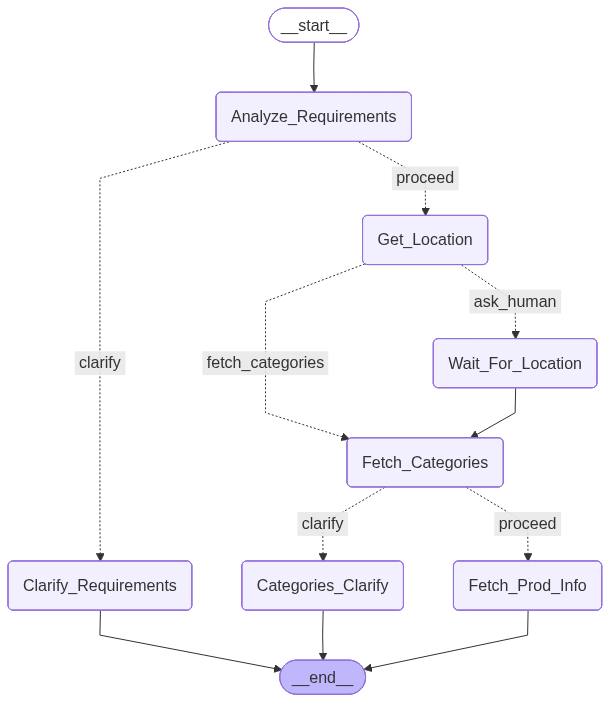
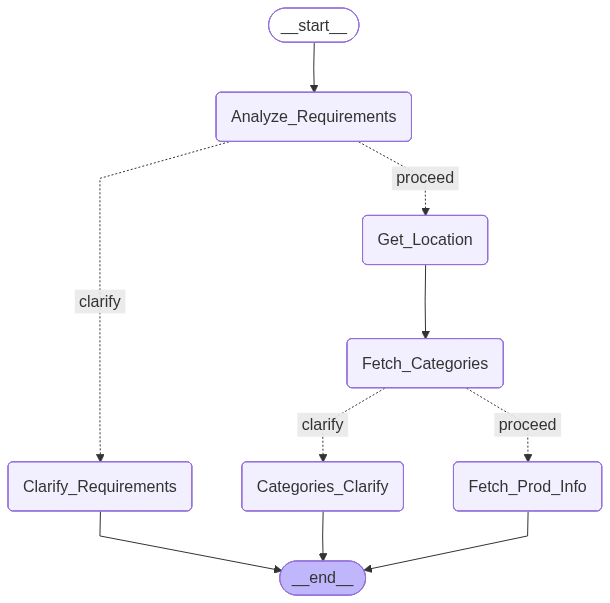
update_code_hil

diff --git a/eApp/worker/celery_task_llm.py b/eApp/worker/celery_task_llm.py
@@ -1,20 +1,19 @@
 import json
 import logging 
-import nest_asyncio 
 from uuid import uuid4
 from eApp import models
 from celery import Celery
 from celery import shared_task
 from eApp.config import CONFIG
+from langgraph.types import Command
 from sqlalchemy import select, func 
-from asgiref.sync import async_to_sync
 from eApp.redis_setup import redis_sync
 from eApp.database import connection_args
 from langchain_core.messages import AIMessage
 from langgraph.checkpoint.postgres.aio import AsyncPostgresSaver
 from eApp.workflows.social_media_workflow import social_media_wkf
+from eApp.workflows.nearby_product_finder_workflow import nearby_product_finder_wkf
 from sqlalchemy.ext.asyncio import create_async_engine,async_sessionmaker,AsyncSession
-from eApp.workflows.nearby_product_finder_workflow import nearby_product_finder_wkf,WAIT_FOR_LOCATION
 
 logger = logging.getLogger(__name__)  
 
@@ -88,8 +87,7 @@ async def chunking_message(chunk):
         )
 
 # Async processing function
-async def process_llm_request_internal(user_question: str, checkpoint_id: str, user_id: int, channel_id: str,workflow_type:str):
-    
+async def process_llm_request_internal(user_question: str, checkpoint_id: str, user_id: int, channel_id: str,workflow_type:str,resume_data:dict=None):
     """ 
     Problem is that,  1st request processed well, but 2nd request 
     get loop confit, so we can solve this by creating a new database connection 
@@ -114,83 +112,106 @@ async def process_llm_request_internal(user_question: str, checkpoint_id: str, u
     try:
         print("\n\n -----we are in process llm request internal-----\n\n")
         async with session_factory() as db:
-            # Check current checkpoint
+
+            # Check current checkpoint:
             is_new_conversation = (checkpoint_id == "")
+
+            # check any resume request:
+            is_resume = resume_data is not None 
             user_checkpoint_id = str(checkpoint_id) if not is_new_conversation else str(uuid4())
 
             # 1.<--- Conversation title ---->
+            # don't need save the conversation if we want resume the graph
             conversation = None
-            if is_new_conversation:
-                conversation = models.Conversation(
+
+            #  ========== if not resume ==========
+            if not is_resume:
+                # 1. fresh conversation
+                if is_new_conversation:
+                    conversation = models.Conversation(
+                        user_id=user_id,
+                        thread_id=user_checkpoint_id,
+                        title=user_question[:50] + "...." if len(user_question) > 50 else user_question
+                    )
+                    db.add(conversation)
+                    await db.commit()
+                    await db.refresh(conversation)
+                    redis_sync.publish(channel_id, json.dumps({
+                    "type": "checkpoint",
+                    "checkpoint_id": user_checkpoint_id}))
+                # 2. old conversation
+                else:
+                    result = await db.execute(
+                        select(models.Conversation).where(
+                            models.Conversation.thread_id == checkpoint_id
+                        ).where(
+                            models.Conversation.user_id == user_id
+                        )
+                    )
+                    conversation = result.scalar_one_or_none()
+                    if not conversation:
+                        redis_sync.publish(channel_id, json.dumps({"type": "error", "content": "Checkpoint not found"}))
+                        return
+                    conversation.last_updated = func.now()
+                    db.add(conversation)
+                    await db.commit()
+
+
+                # 2. Save User Message
+                user_msg = models.MessageHistory(
                     user_id=user_id,
-                    thread_id=user_checkpoint_id,
-                    title=user_question[:50] + "...." if len(user_question) > 50 else user_question
+                    conversation_id=conversation.id,
+                    thread_id=conversation.thread_id,
+                    message=user_question,
+                    sender_role="human",
                 )
-                db.add(conversation)
+                db.add(user_msg)
                 await db.commit()
-                await db.refresh(conversation)
-            else:
+                logger.info(f"Saved user message for conversation {conversation.id}")
+
+            # ======== if not resume: ====
+            else: 
                 result = await db.execute(
                     select(models.Conversation).where(
-                        models.Conversation.thread_id == checkpoint_id
-                    ).where(
+                        models.Conversation.thread_id == checkpoint_id,
                         models.Conversation.user_id == user_id
                     )
                 )
                 conversation = result.scalar_one_or_none()
-                if not conversation:
-                    redis_sync.publish(channel_id, json.dumps({"type": "error", "content": "Checkpoint not found"}))
-                    return
-                conversation.last_updated = func.now()
-                db.add(conversation)
-                await db.commit()
-
-
-            # 2. Save User Message
-            user_msg = models.MessageHistory(
-                user_id=user_id,
-                conversation_id=conversation.id,
-                thread_id=conversation.thread_id,
-                message=user_question,
-                sender_role="human",
-            )
-            db.add(user_msg)
-            await db.commit()
-            logger.info(f"Saved user message for conversation {conversation.id}")
+ 
 
             # 3. Stream Events
             ai_content = ""
             config = {"configurable": {"thread_id": conversation.thread_id}}
-
-            # Publish checkpoint if new
-            if is_new_conversation:
-                print("pulishing new checkpiont---> for user ")
-                redis_sync.publish(channel_id, json.dumps({"type": "checkpoint", "checkpoint_id": user_checkpoint_id}))
 
             # Stream LangGraph events - This will work because it's inside async context
             string = CONFIG.DATABASE_URL_CELERY_TASK
             async with AsyncPostgresSaver.from_conn_string(string) as memory:
                 if workflow_type == 'social_media_posting':
                     graph = social_media_wkf.compile(checkpointer=memory)
-                    events =  graph.astream_events(
-                    input={"user_question": user_question,"current_user_id":int(user_id)},
-                    version="v2",
-                    config=config)
+                    graph_input = {
+                        "user_question": user_question,
+                        "current_user_id": int(user_id)
+                    }
                 elif workflow_type == 'local_search':
-                    graph = nearby_product_finder_wkf.compile(checkpointer=memory,
-                                                              interrupt_before=[WAIT_FOR_LOCATION])
-                    events =  graph.astream_events(
-                        input={"user_question": user_question,
-                               "current_user_id":int(user_id),
-                               },
-                        version="v2",
-                        config=config)
-                print("last node execution brother")
-                # for handling HIL we need to track the node:
+                    graph = nearby_product_finder_wkf.compile(checkpointer=memory)
+                
+                    # ---------- Resume from HITL-----------------
+                    if is_resume:
+                        print("resuming graph")
+                        graph_input = Command(resume=resume_data)
+                        
+                    else:
+                        graph_input = {
+                                "user_question": user_question,
+                                "current_user_id": int(user_id),
+                            }
+
+                # for handling HITL we need to track the node:
                 last_node = None 
                 current_workflow_interrupts = INTERRUPT_CONFIG.get(workflow_type,{})
 
-                async for event in events:
+                async for event in graph.astream_events(graph_input,config=config,version='v2'):
                     event_type = event["event"]
                     #print(f"event type, {event_type}")
                     # If error occurs
@@ -244,28 +265,18 @@ async def process_llm_request_internal(user_question: str, checkpoint_id: str, u
                         print("on chain stream node")
                         # if not key(k) then default will work
                         chunk = event.get('data',{}).get('chunk',{})
+                        print(f"chunk content: {chunk}")
                         if isinstance(chunk,dict) and "__interrupt__" in chunk:
-                            interrupt_info = current_workflow_interrupts.get(last_node)
-                            if interrupt_info:
-                                redis_sync.publish(
-                                    channel_id,
-                                    json.dumps({
-                                        **interrupt_info,
-                                        "checkpoint_id": user_checkpoint_id,
-                                        "interrupted_at": last_node
-                                    })
-                                )
-                            # flase interrupted:
-                            else:
-                                redis_sync.publish(channel_id, json.dumps({
-                                    "type": "unknown_interrupt",
-                                    "checkpoint_id": user_checkpoint_id,
-                                    "interrupted_at": last_node
-                                }))
+                            interrupts = chunk["__interrupt__"]
+                            interrupt_value = interrupts[0].value if interrupts else {}
+                            print(f"publishing interrupt: {interrupt_value}")
+                            redis_sync.publish(channel_id, json.dumps({
+                                **interrupt_value,
+                                "checkpoint_id": user_checkpoint_id if is_new_conversation else checkpoint_id,
+                            }))
                             redis_sync.publish(channel_id, json.dumps({"type": "end"}))
                             return 
 
-                
             # Send the end event
             if ai_content:
                 ai_msg = models.MessageHistory(
@@ -319,7 +330,7 @@ import selectors
 from eApp.redis_setup import redis_async
 
 @celery_app_llm.task(bind=True, name="app.worker.celery_task_llm.process_llm_request_task")
-def process_llm_request_task(self, user_question: str, checkpoint_id: str, user_id: int, channel_id: str,workflow_type:str):
+def process_llm_request_task(self, user_question: str, checkpoint_id: str, user_id: int, channel_id: str,workflow_type:str,resume_data:dict=None):
     if sys.platform == 'win32':
         loop = asyncio.SelectorEventLoop(selectors.SelectSelector())
     else:
@@ -330,7 +341,7 @@ def process_llm_request_task(self, user_question: str, checkpoint_id: str, user_
     try:
         #loop = asyncio.new_event_loop()
         return loop.run_until_complete(
-            process_llm_request_internal(user_question, checkpoint_id, user_id, channel_id,workflow_type)
+            process_llm_request_internal(user_question, checkpoint_id, user_id, channel_id,workflow_type,resume_data)
         )
     except Exception as e:
         print(f"Error in Celery task: {e}")

diff --git a/eApp/workflows/nearby_product_finder_workflow.py b/eApp/workflows/nearby_product_finder_workflow.py
@@ -4,6 +4,7 @@ from pydantic import BaseModel
 from eApp.config import CONFIG
 from typing import List,Optional
 from langchain_groq import ChatGroq
+from langgraph.types import interrupt
 from eApp.database import asyncSession
 from langgraph.graph import StateGraph,START,END
 from langchain_core.prompts import ChatPromptTemplate
@@ -137,20 +138,18 @@ def clarify_requirements(state:AgentState):
 async def get_location_node(state: AgentState):
     if state.user_lat is not None and state.user_long is not None:
         return state
+    
     print("Agent needs location. Sending request to Frontend...")
-    state.waiting_for_location = True
-    return state
+    location_data = interrupt({
+        'type': 'request_location',
+        'message': 'Live Location Need'
+    })
+    return {
+        "user_lat": location_data["user_lat"],
+        "user_long": location_data["user_long"],
+        "waiting_for_location": False
+    }
 
-def check_location_condition(state: AgentState):
-    if state.waiting_for_location:
-        return "ask_human" 
-    else:
-        return "fetch_categories"
-
-def wait_for_human_node(state: AgentState):
-    print("--- 📍 Location Received from Human! Resuming Graph ---")
-    state.waiting_for_location = False 
-    return state
 
 async def fetch_categories(state:AgentState):
     try:
@@ -216,7 +215,7 @@ def categories_router(state:AgentState):
 async def categories_clarify(state: AgentState):
     try:
         print("--- CATEGORY CLARIFICATION NODE ---")
-    
+
         category_list = state.matches_categories
         system_prompt = (
             "You are a helpful customer support agent for a hyperlocal e-commerce platform.\n"
@@ -307,7 +306,6 @@ async def fetch_prod_info(state: AgentState):
 nearby_product_finder_wkf = StateGraph(state_schema=AgentState)
 ANALYZE_REQUIREMENTS = "Analyze_Requirements"
 CLARIFY_REQUIREMENTS = "Clarify_Requirements"
-WAIT_FOR_LOCATION = "Wait_For_Location"
 CATEGORIES_CLARIFY = "Categories_Clarify"
 GET_LOCATION = "Get_Location"
 FETCH_CATEGORIES = "Fetch_Categories"
@@ -318,7 +316,6 @@ FETCH_PROD_INFO = "Fetch_Prod_Info"
 nearby_product_finder_wkf.add_node(ANALYZE_REQUIREMENTS,analysis_requirements)
 nearby_product_finder_wkf.add_node(CLARIFY_REQUIREMENTS,clarify_requirements)
 nearby_product_finder_wkf.add_node(GET_LOCATION, get_location_node)
-nearby_product_finder_wkf.add_node(WAIT_FOR_LOCATION, wait_for_human_node)
 nearby_product_finder_wkf.add_node(FETCH_CATEGORIES,fetch_categories)
 nearby_product_finder_wkf.add_node(FETCH_PROD_INFO,fetch_prod_info)
 nearby_product_finder_wkf.add_node(CATEGORIES_CLARIFY,categories_clarify)
@@ -334,15 +331,7 @@ nearby_product_finder_wkf.add_conditional_edges(
     }
 )
 nearby_product_finder_wkf.add_edge(CLARIFY_REQUIREMENTS,END)
-nearby_product_finder_wkf.add_conditional_edges(
-    GET_LOCATION,
-    check_location_condition,
-    {
-        "ask_human": WAIT_FOR_LOCATION, 
-        "fetch_categories": FETCH_CATEGORIES
-    }
-)
-nearby_product_finder_wkf.add_edge(WAIT_FOR_LOCATION, FETCH_CATEGORIES)
+nearby_product_finder_wkf.add_edge(GET_LOCATION, FETCH_CATEGORIES)
 nearby_product_finder_wkf.add_conditional_edges(
     FETCH_CATEGORIES,
     categories_router,{
@@ -354,15 +343,17 @@ nearby_product_finder_wkf.add_edge(CATEGORIES_CLARIFY,END)
 nearby_product_finder_wkf.add_edge(FETCH_PROD_INFO,END)
 
 
+# for testing the graph: 
 if __name__ == "__main__":
     import asyncio 
     memory = InMemorySaver()
     agnet_state = AgentState(
         user_question="Hi! i want to buy a pc. could u can help me?",
         current_user_id=1,
+        user_lat= 24.7632725,
+        user_long=89.8870205
     )
-    app = nearby_product_finder_wkf.compile(memory,
-                                            interrupt_before=[WAIT_FOR_LOCATION])
+    app = nearby_product_finder_wkf.compile(memory)
     
     # save the workflow graph:
     # grph = app.get_graph().draw_mermaid_png()
@@ -370,11 +361,12 @@ if __name__ == "__main__":
     #         f.write(grph)
     # print(" Success! Your graph image has been saved as 'graph_pipeline.png'")
     config = {"configurable": {"thread_id": "test_thread_123"}}
-    async def main():
-        print("\n--- Token by Token Streaming ---")
-        async for event in app.astream_events(agnet_state, config=config, version="v2"):
-            print(event)
-    asyncio.run(main())
+    # async def main():
+    #     print("\n--- Token by Token Streaming ---")
+    #     async for event in app.astream_events(agnet_state, config=config, version="v2"):
+    #         print(event)
+    # asyncio.run(main())
+    print(asyncio.run(app.ainvoke(agnet_state,config=config)))
 
     
     

diff --git a/eApp/routes/sse.py b/eApp/routes/sse.py
@@ -30,7 +30,7 @@ MAX_CONCURRENT = 2
 
 @router.post("/chat")
 async def chat_stream(input_data: InputMessage, request: Request, user = Depends(get_current_user), db = Depends(get_db)):
-    if not input_data.message:
+    if not input_data.message and not input_data.resume_data:
         raise HTTPException(status_code=400, detail="Message is required")
     
     user_message = input_data.message
@@ -39,7 +39,8 @@ async def chat_stream(input_data: InputMessage, request: Request, user = Depends
     free_trial = user.free_count
     paid_ = user.paid_status
     workflow_type = input_data.workflow_type
-    
+    resume_data = input_data.resume_data
+
     #print(f"User: {user}, Input: {input_data}")
     
     if free_trial > 3 and not paid_:
@@ -57,7 +58,7 @@ async def chat_stream(input_data: InputMessage, request: Request, user = Depends
 
     # <------- Call the Celery task id for fetch api-key------------->
     task = process_llm_request_task.apply_async(
-        args=(user_message, checkpoint_id, user_id, channel_id,workflow_type)
+        args=(user_message, checkpoint_id, user_id, channel_id,workflow_type,resume_data)
     )
 
 

diff --git a/eApp/schemas.py b/eApp/schemas.py
@@ -98,6 +98,7 @@ class InputMessage(BaseModel):
     # 3. casual_talk_about_product_review_workflow
     #
     workflow_type : str
+    resume_data: dict | None = None 
 
 
 
